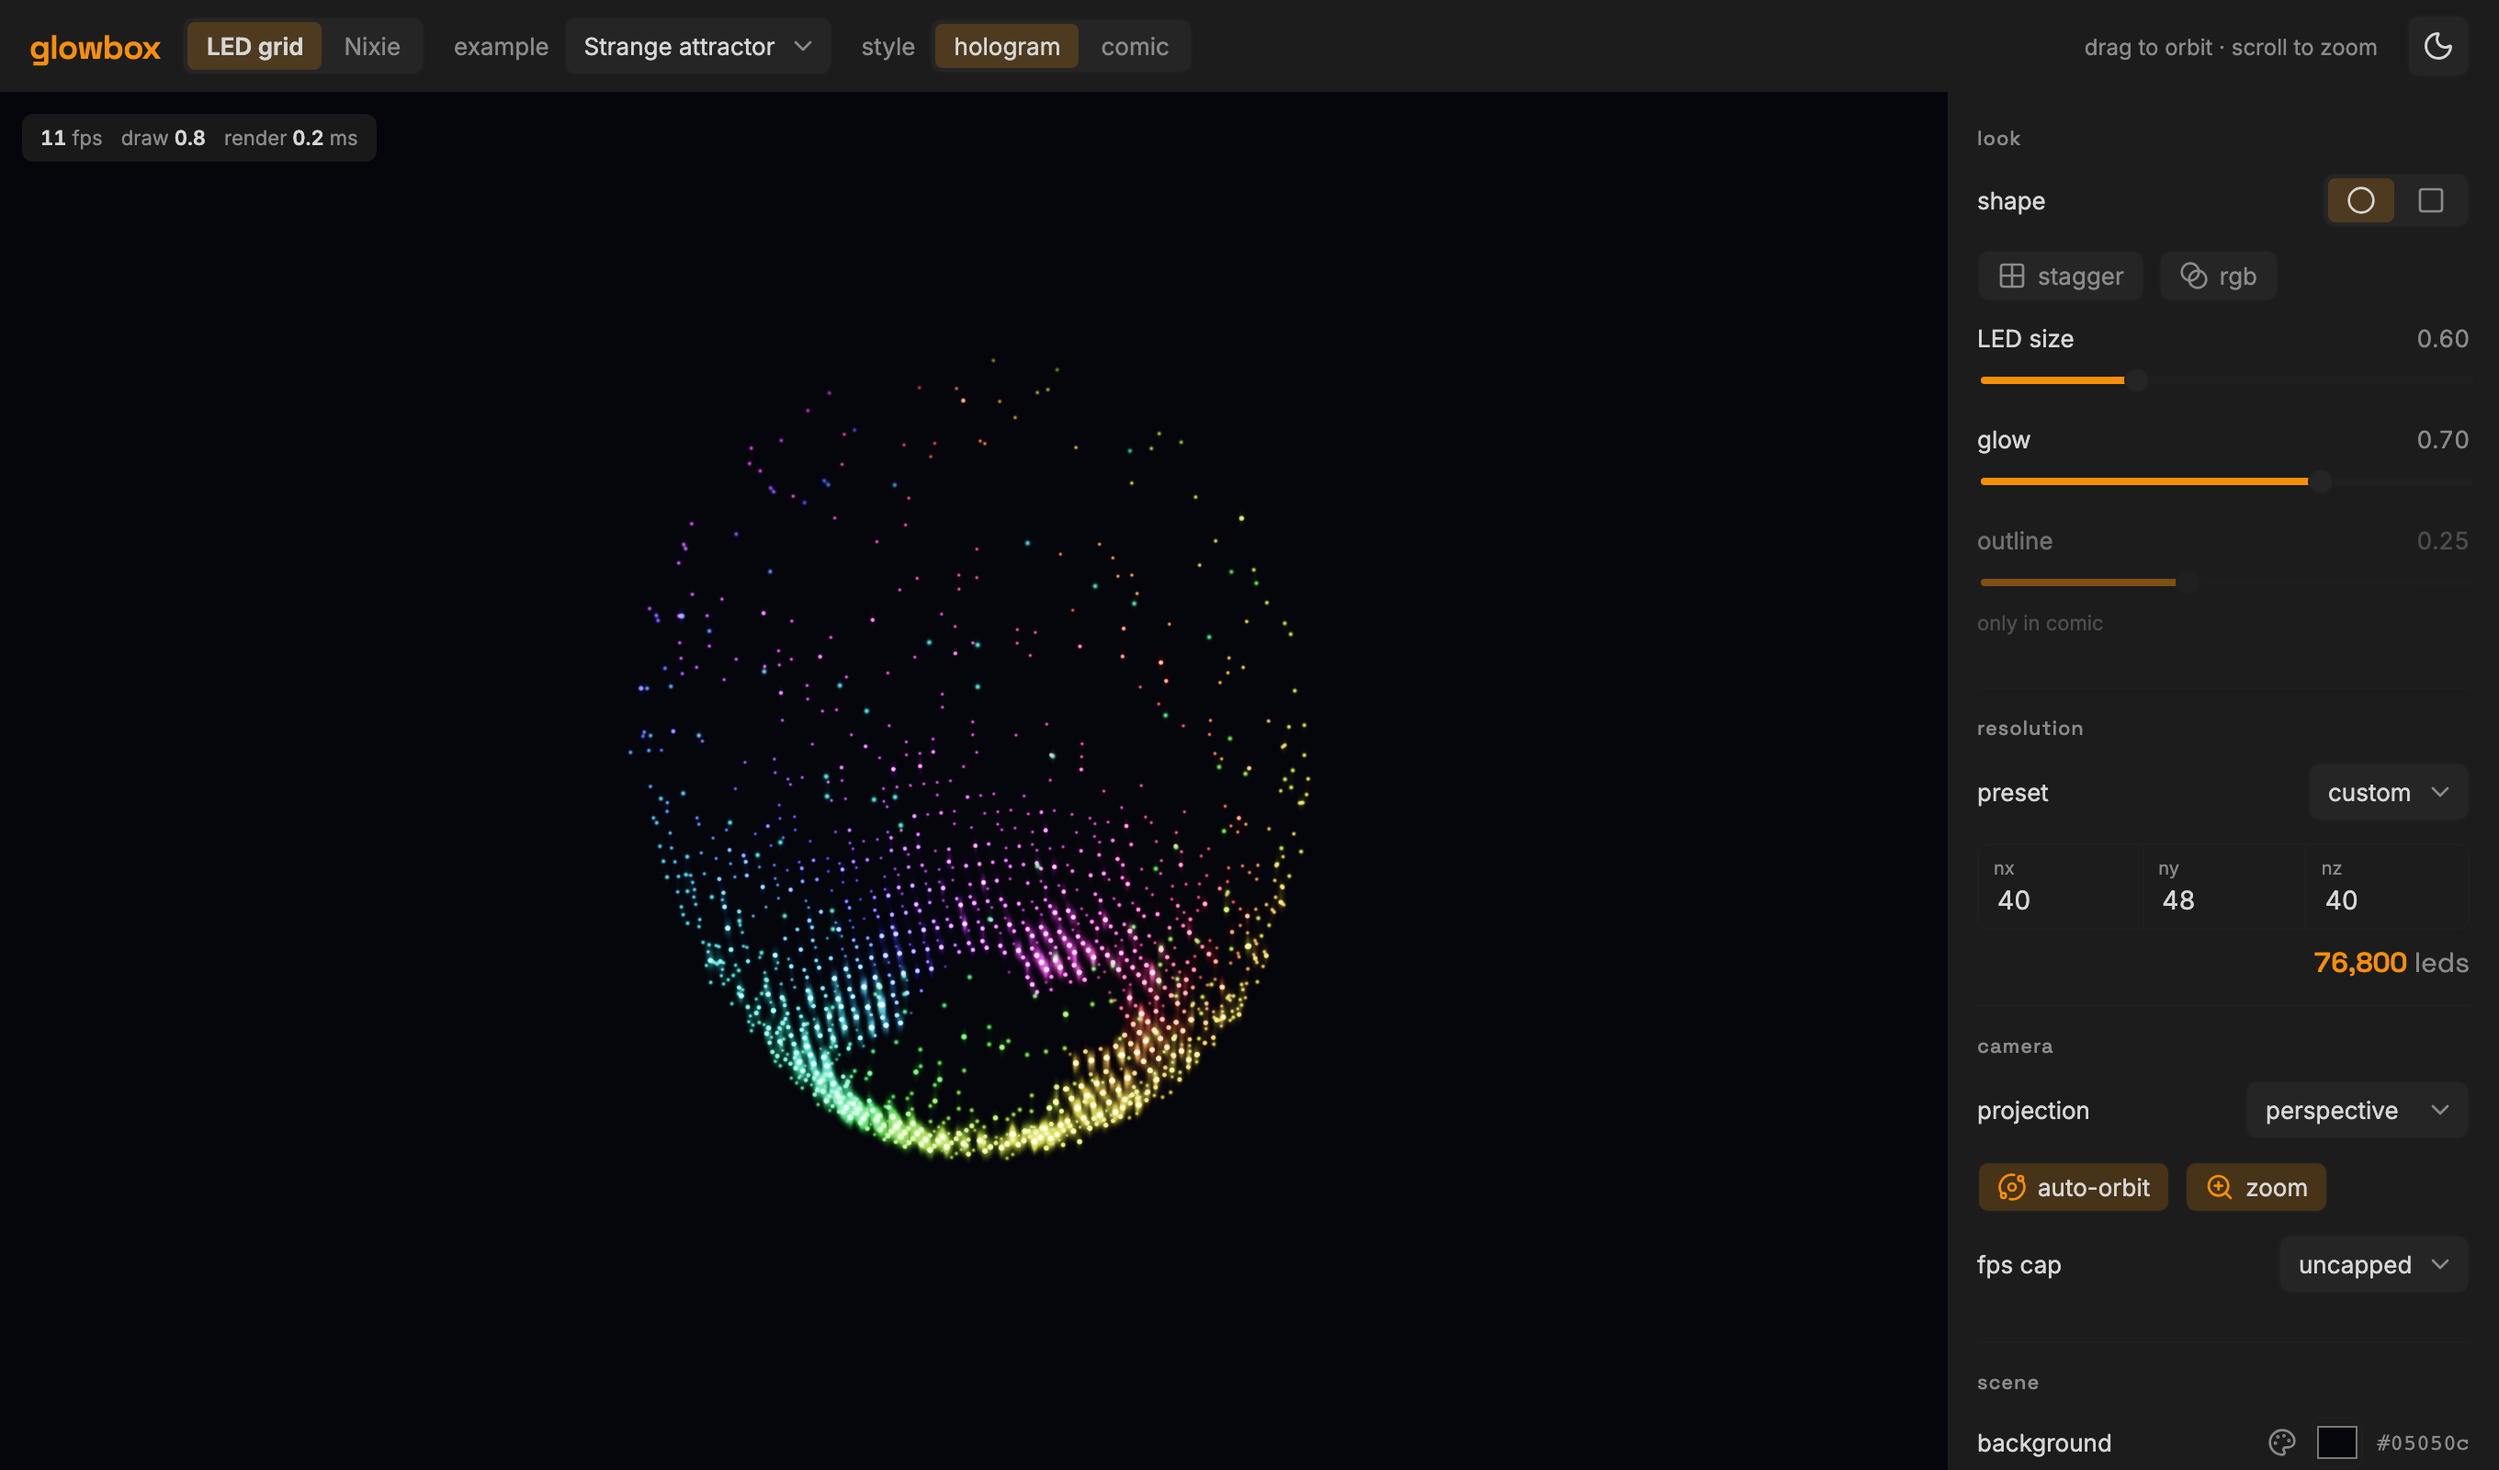
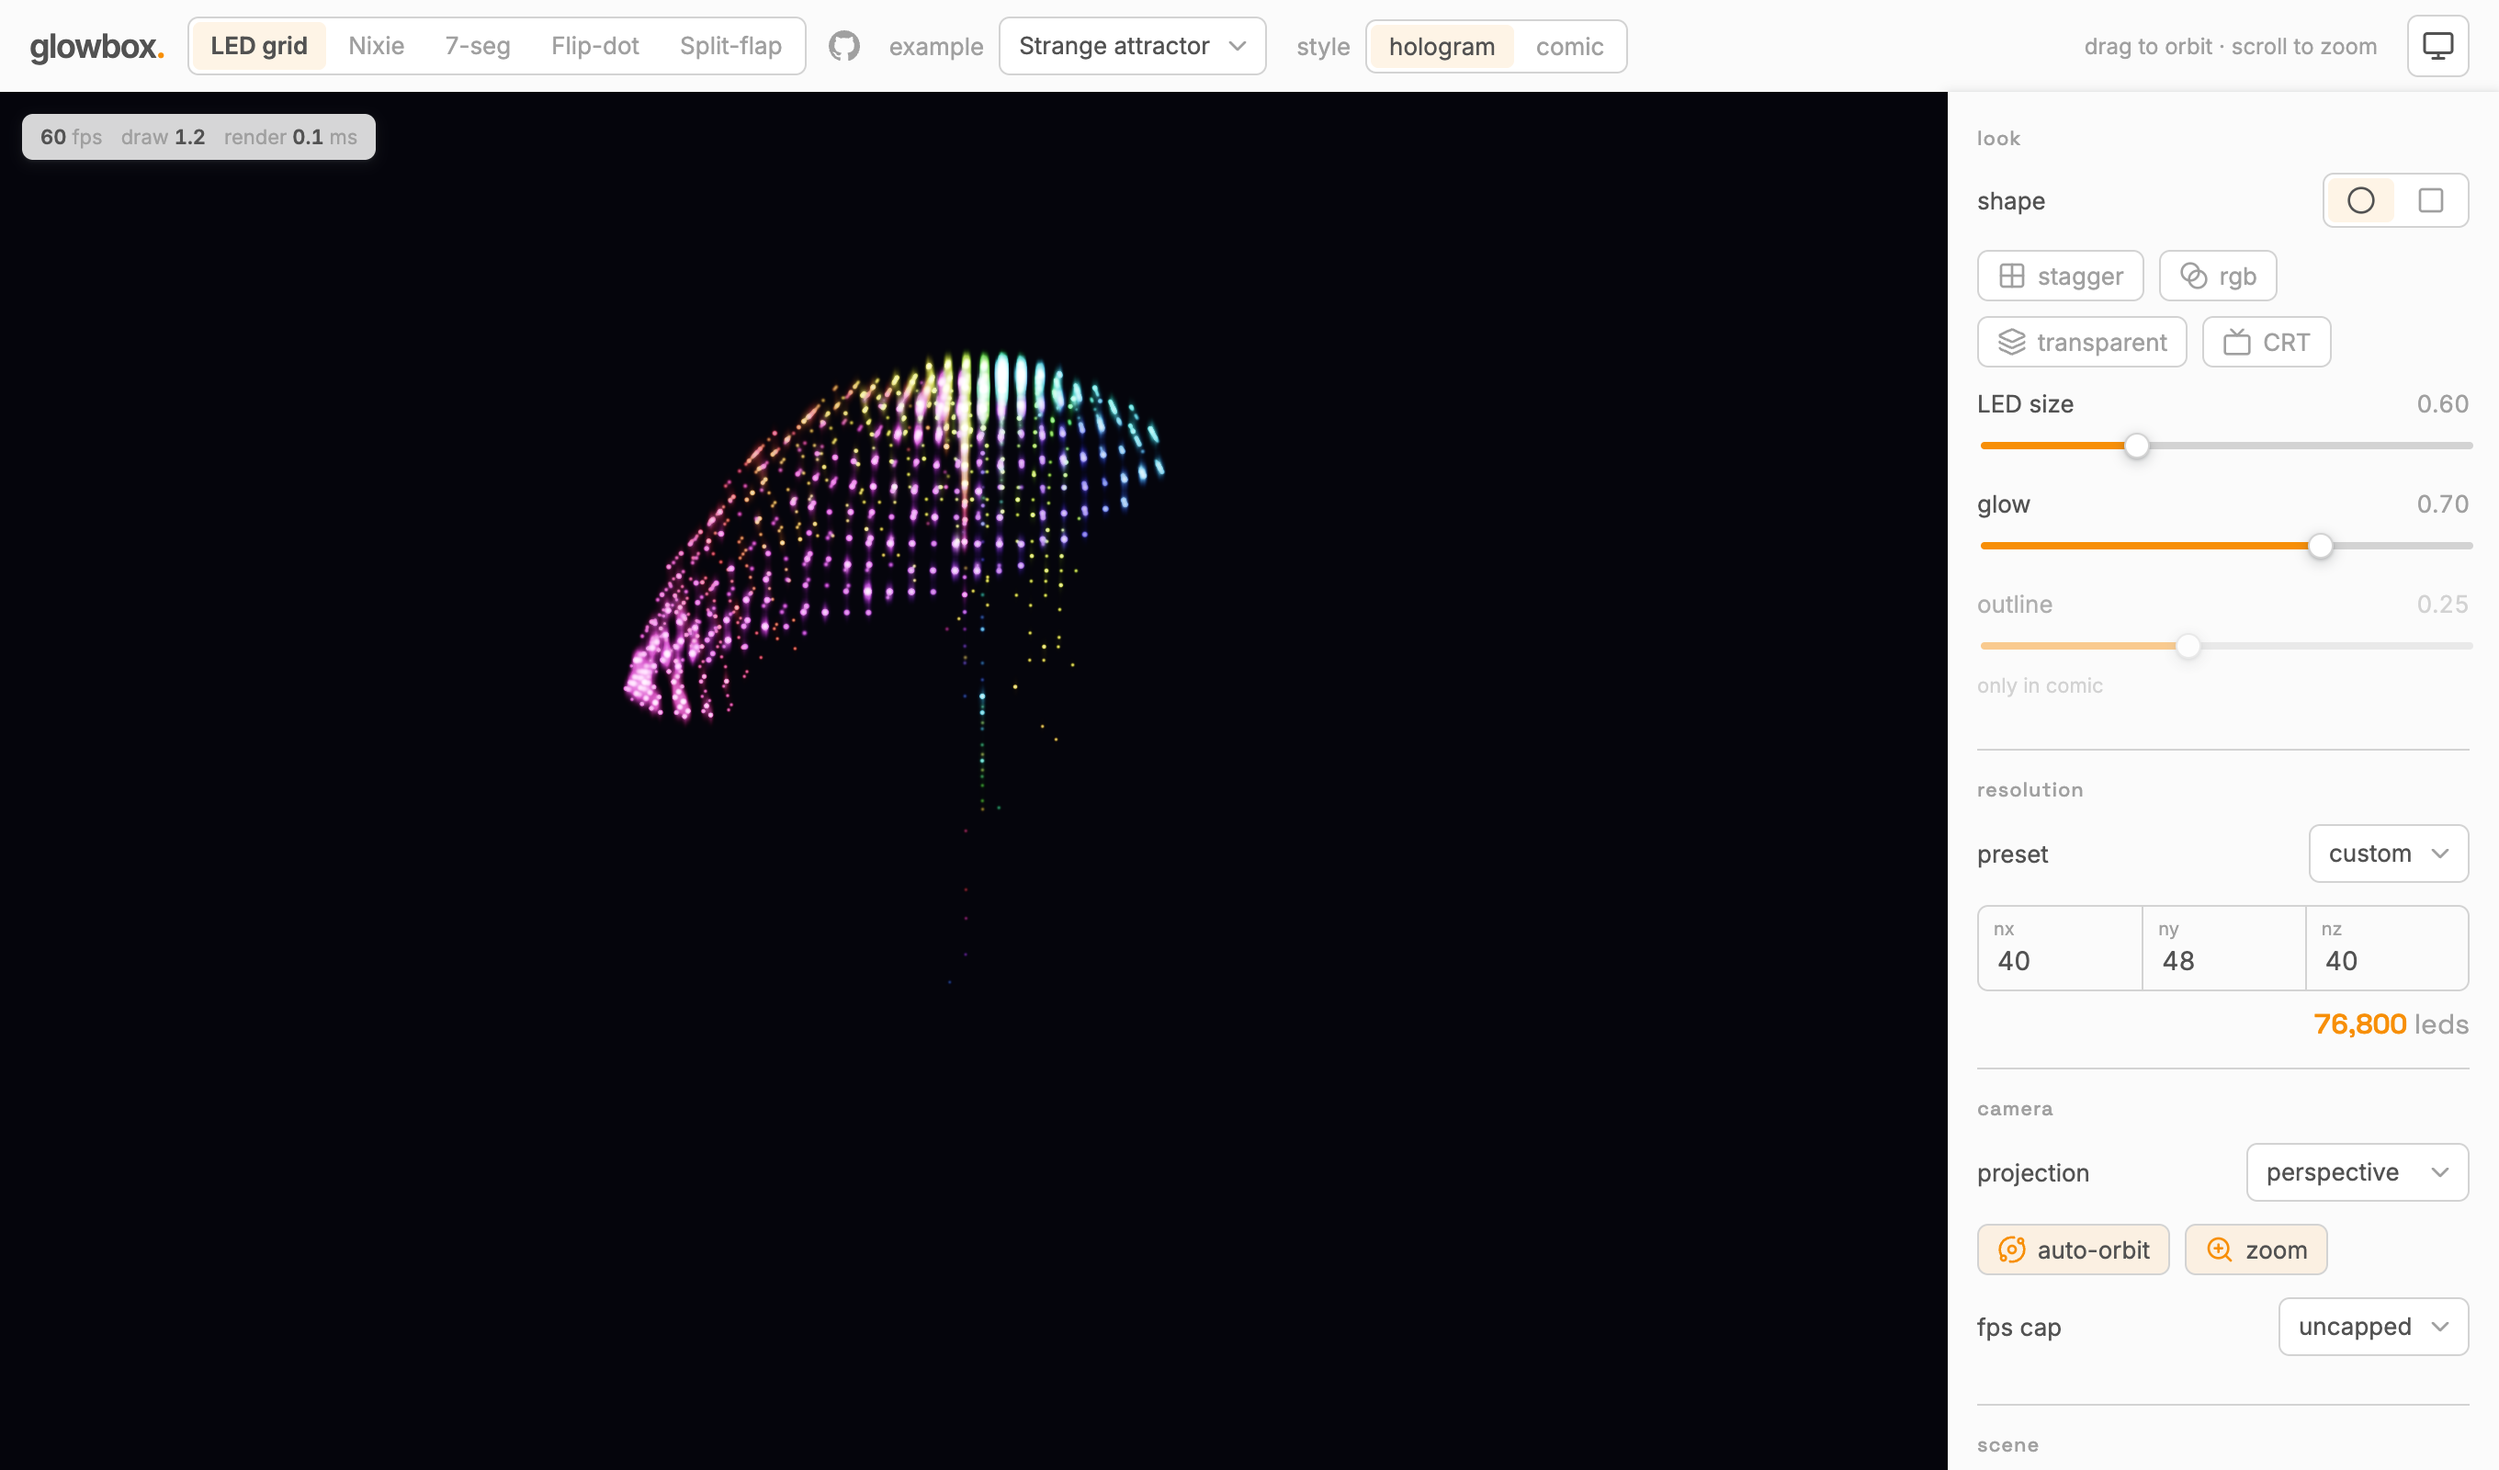
docs: main README catches up with 1.6.0 (#53)
* docs: main README catches up — five cores, ten packages, all demo routes

* docs: fresh screenshots — hero and nixie retaken, flip-dot and split-flap added

diff --git a/README.md b/README.md
@@ -7,9 +7,12 @@
 
 Glowing retro **display components**: a generic **3D LED-grid display** — an
 nx×ny×nz lattice of glowing "LEDs" you draw on like a tiny 3D canvas, rendered
-in WebGL and orbitable (auto-spin + drag + zoom) — and a **nixie-tube display**
-rendered on a 2D canvas. Both ship as **framework-agnostic cores** plus thin
-framework wrappers you install into any SPA.
+in WebGL and orbitable (auto-spin + drag + zoom) — plus four 2D-canvas cores:
+a **nixie tube**, a **seven-segment digit**, an **electromechanical flip-dot
+board** (discs physically rotate, and click), and a **split-flap (Solari)
+display** (flap cards fall from a drum, and clack). All ship as
+**framework-agnostic cores** plus thin framework wrappers you install into any
+SPA.
 
 ![The glowbox demo playground rendering a colourful strange-attractor particle swarm on the WebGL LED grid, with the live control panel](media/hero.png)
 
@@ -17,7 +20,9 @@ framework wrappers you install into any SPA.
 attractor, a voxelized X-wing model, a wave field, a GIF billboard, a text
 ticker, rain, a wormhole fly-through, and a self-playing 3D Pac-Man, plus a
 nixie-tube clock — flat 2D tubes or a 3D wire-cathode-in-glass scene — on the
-`/nixie` route, and an ageing seven-segment clock on `/seven`.
+`/nixie` route, an ageing seven-segment clock on `/seven`, a flip-dot board with
+a solenoid rattle on `/flipdot`, and a split-flap departures board — with chroma
+image drums, matrix rain, snake and pong — on `/splitflap`.
 
 ## Packages
 
@@ -26,21 +31,29 @@ nixie-tube clock — flat 2D tubes or a 3D wire-cathode-in-glass scene — on th
 | [`@glowbox/led-grid`](packages/led-grid)           | `yarn add @glowbox/led-grid`      | plain-TS WebGL display + voxel API (zero deps)                         |
 | [`@glowbox/nixie`](packages/nixie)                 | `yarn add @glowbox/nixie`         | nixie-tube display core: glowing vector numerals (2D canvas)           |
 | [`@glowbox/seven-segment`](packages/seven-segment) | `yarn add @glowbox/seven-segment` | seven-segment display core: per-segment dynamics, ageing, LED/VFD      |
+| [`@glowbox/flip-dot`](packages/flip-dot)           | `yarn add @glowbox/flip-dot`      | flip-dot board core: physical disc flips, dithering, solenoid click    |
+| [`@glowbox/split-flap`](packages/split-flap)       | `yarn add @glowbox/split-flap`    | split-flap (Solari) core: drum cascades, chroma image drums, card slap |
 | [`@glowbox/crt`](packages/crt)                     | `yarn add @glowbox/crt`           | composable CRT screen over any canvas: curvature, phosphor persistence |
-| [`@glowbox/svelte`](packages/svelte)               | `yarn add @glowbox/svelte`        | Svelte 5 components: `<LedGrid>` + `<NixieTube>` + `<SevenSegment>`    |
-| [`@glowbox/react`](packages/react)                 | `yarn add @glowbox/react`         | React components: the same three (`^18 \|\| ^19`)                      |
-| [`@glowbox/vue`](packages/vue)                     | `yarn add @glowbox/vue`           | Vue 3 components: the same three                                       |
+| [`@glowbox/svelte`](packages/svelte)               | `yarn add @glowbox/svelte`        | Svelte 5 components, one per core (`<LedGrid>` … `<SplitFlap>`)        |
+| [`@glowbox/react`](packages/react)                 | `yarn add @glowbox/react`         | React components: the same five (`^18 \|\| ^19`)                       |
+| [`@glowbox/vue`](packages/vue)                     | `yarn add @glowbox/vue`           | Vue 3 components: the same five                                        |
 | [`@glowbox/extras`](packages/extras)               | `yarn add @glowbox/extras`        | content: GIF/image players, 5×7 LED font text + scroller               |
 
-Three rendering cores — the 3D LED grid (`@glowbox/led-grid`), the nixie tube
-(`@glowbox/nixie`), and the seven-segment display (`@glowbox/seven-segment`) — and each
-framework package (`svelte`/`react`/`vue`) ships a thin component for **all of them**
-(`<LedGrid>` + `<NixieTube>` + `<SevenSegment>`), with room for more cores later.
+Five rendering cores — the 3D LED grid (`@glowbox/led-grid`), the nixie tube
+(`@glowbox/nixie`), the seven-segment display (`@glowbox/seven-segment`), the
+flip-dot board (`@glowbox/flip-dot`) and the split-flap display
+(`@glowbox/split-flap`) — and each framework package (`svelte`/`react`/`vue`)
+ships a thin component for **all of them** (`<LedGrid>` + `<NixieTube>` +
+`<SevenSegment>` + `<FlipDots>` + `<SplitFlap>`).
 `@glowbox/extras` layers content (GIF/image animation, text, audio bands) on the core's
 draw API, and `@glowbox/crt` is the first _effects layer_ — slap a curved phosphor
 screen over any of them (or any canvas at all).
 
 ![The @glowbox/nixie demo: a row of glowing nixie tubes wired into a clock, with tube-style and colour controls](media/nixie.png)
+
+![The @glowbox/flip-dot demo: a 56×28 flip-dot clock in fluorescent yellow-green, seconds sweeping along the bottom row](media/flipdot.png)
+
+![The @glowbox/split-flap demo: a Solari departures board of Finnish stations in shaded mode, rows mid-cascade](media/splitflap.png)
 
 ## Quickstart
 
@@ -89,14 +102,16 @@ packages/vue             @glowbox/vue       — the Vue 3 wrapper
 packages/extras          @glowbox/extras    — content helpers (GIF/image/text)
 packages/nixie           @glowbox/nixie     — nixie-tube rendering core (2D canvas)
 packages/seven-segment   @glowbox/seven-segment — seven-segment rendering core (2D canvas)
+packages/flip-dot        @glowbox/flip-dot  — flip-dot board rendering core (2D canvas)
+packages/split-flap      @glowbox/split-flap — split-flap rendering core (2D canvas)
 packages/crt             @glowbox/crt       — composable CRT screen effect (WebGL pass)
-examples/svelte-gallery  the demo SPA (voxel gallery + a /nixie clock) → GitHub Pages
+examples/svelte-gallery  the demo SPA (LED gallery + nixie/seven/flipdot/splitflap) → GitHub Pages
 ```
 
 ```sh
 node .yarn/releases/yarn-*.cjs install   # or: yarn install (if yarn is on PATH)
 yarn dev        # run the demo gallery (Vite, :5173) against the library source
-yarn build      # build all packages (led-grid → nixie → svelte/react/vue/extras) + the demo
+yarn build      # build all packages (cores → wrappers/extras) + the demo
 yarn test       # vitest (node + headless-chromium browser) + Playwright e2e
 yarn validate   # lint + format + typecheck + test
 yarn size       # bundle-size budgets (size-limit; minified + brotli) on the shipped bundles
@@ -108,11 +123,10 @@ their own `build`/`test`.
 
 ## Publishing
 
-All eight packages publish to the public npm registry under the `@glowbox` scope. Tag
+All ten packages publish to the public npm registry under the `@glowbox` scope. Tag
 a release (`vX.Y.Z`) and the `release` workflow publishes each via **npm trusted
-publishing (OIDC)** with provenance — no `NPM_TOKEN` secret (the cores — led-grid,
-nixie — first, then the wrappers + extras). Each package needs a trusted publisher
-configured on npm.
+publishing (OIDC)** with provenance — no `NPM_TOKEN` secret (the cores first, then
+the wrappers + extras). Each package needs a trusted publisher configured on npm.
 
 ## License
 
